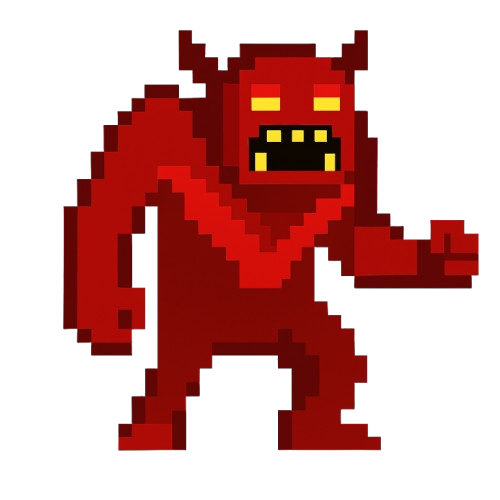
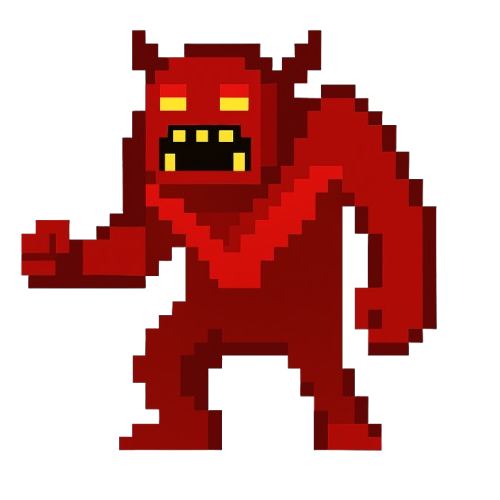
fixed code and dialouge and hopefully boss scale factor

diff --git a/assets/js/murderMystery/MurderMysteryL6.js b/assets/js/murderMystery/MurderMysteryL6.js
@@ -25,7 +25,7 @@ class MurderMysteryBossFight {
                 SCALE_FACTOR: 6,
                 STEP_FACTOR: 1000,
                 ANIMATION_RATE: 50,
-                INIT_POSITION: { x: 250, y: 350 },
+                INIT_POSITION: { x: 720, y: 800 },
                 pixels: {height: 256, width: 256},
                 orientation: { rows: 4, columns: 4 },
                 down: { row: 0, start: 0, columns: 3 },
@@ -42,23 +42,25 @@ class MurderMysteryBossFight {
 
      const sprite_data_boss = {
         id: 'Boss',
-        src: path + "/assets/images/Bossright.png",
+        src: path + "/assets/images/boss.png",
+        archie_src: path + "/assets/images/archie_single.png",
         // Make boss exactly 2x Archie's scale
-        SCALE_FACTOR:50,
+        SCALE_FACTOR:1.25,
         STEP_FACTOR: 1000,
         ANIMATION_RATE: 0,
-        INIT_POSITION: { x: 1300, y: 300 }, 
-        pixels: { height: 200, width: 200 },
+        INIT_POSITION: { x: 650, y: 50 }, 
+        pixels: { height: 1024, width: 1024 },
         orientation: { rows: 1, columns: 1 },
         down: { row: 0, start: 0, columns: 1 },
     greeting: "Well played \"hero\". Press E to fight me if you dare!",
     dialogues: [
-        { speaker: 'Archie', text: "I won't let you harm me! You will pay for your crimes!" },
-        { speaker: 'Archie', text: "I have received this sword! It is the only thing capable of slaying you." },
-        { speaker: 'Boss', text: "Foolish hero, you think that flimsy sword can stop me?" },
-        { speaker: 'Archie', text: "*With a swift motion, the hero raises the sword and strikes.*" },
-        { speaker: 'Boss', text: "No...how could this be?" },
-        { speaker: 'Archie', text: "You will harm us no more, you monster!" }
+        { speaker: 'Archie', text: "I have received this sword. It is the only thing capable of slaying you." },
+        { speaker: 'Boss', text: "From the shadows, I emerge. Your fate has been sealed." },
+        { speaker: 'Archie', text: "I won't stand for this injustice! You will pay for your crimes!" },
+        { speaker: 'Boss', text: "Foolish hero... You think that blade can stop me? I will crush you and everything you protect!" },
+        { speaker: 'Archie', text: "*With a swift motion, you raise the sword and strike. The blade cuts through darkness itself.*" },
+        { speaker: 'Boss', text: "No... this cannot be... I am eternal..." },
+        { speaker: 'Archie', text: "You will harm us no more, you monster." }
     ],
     
         interact: function() {
@@ -67,11 +69,14 @@ class MurderMysteryBossFight {
         const dialogues = this.spriteData.dialogues;
         const npcName = this.spriteData?.id || "Boss";
         const npcAvatar = this.spriteData?.src || null;
+        const archieAvatar = this.spriteData?.archie_src || null;
         
-        // Show current dialogue
+        // Show current dialogue and choose avatar based on the speaker
         const currentDialogueObj = dialogues[this.currentQuestionIndex];
         const displayName = currentDialogueObj.speaker || npcName;
-        this.dialogueSystem.showDialogue(currentDialogueObj.text, displayName, npcAvatar);
+        // If the speaker is Archie, use Archie's sprite; otherwise use this NPC's sprite
+        const speakerAvatar = (displayName === 'Archie') ? archieAvatar : npcAvatar;
+        this.dialogueSystem.showDialogue(currentDialogueObj.text, displayName, speakerAvatar);
         this.currentQuestionIndex++;
         
         // Add custom handler for advancing dialogue
@@ -86,10 +91,11 @@ class MurderMysteryBossFight {
                         this.dialogueSystem.closeDialogue();
                         this.currentQuestionIndex = 0;
                     } else {
-                        // Show next line
+                        // Show next line and update avatar per speaker
                         const nextDialogueObj = dialogues[this.currentQuestionIndex];
                         const displayName = nextDialogueObj.speaker || npcName;
-                        this.dialogueSystem.showDialogue(nextDialogueObj.text, displayName, npcAvatar);
+                        const nextAvatar = (displayName === 'Archie') ? archieAvatar : npcAvatar;
+                        this.dialogueSystem.showDialogue(nextDialogueObj.text, displayName, nextAvatar);
                         this.currentQuestionIndex++;
                     }
                 }
